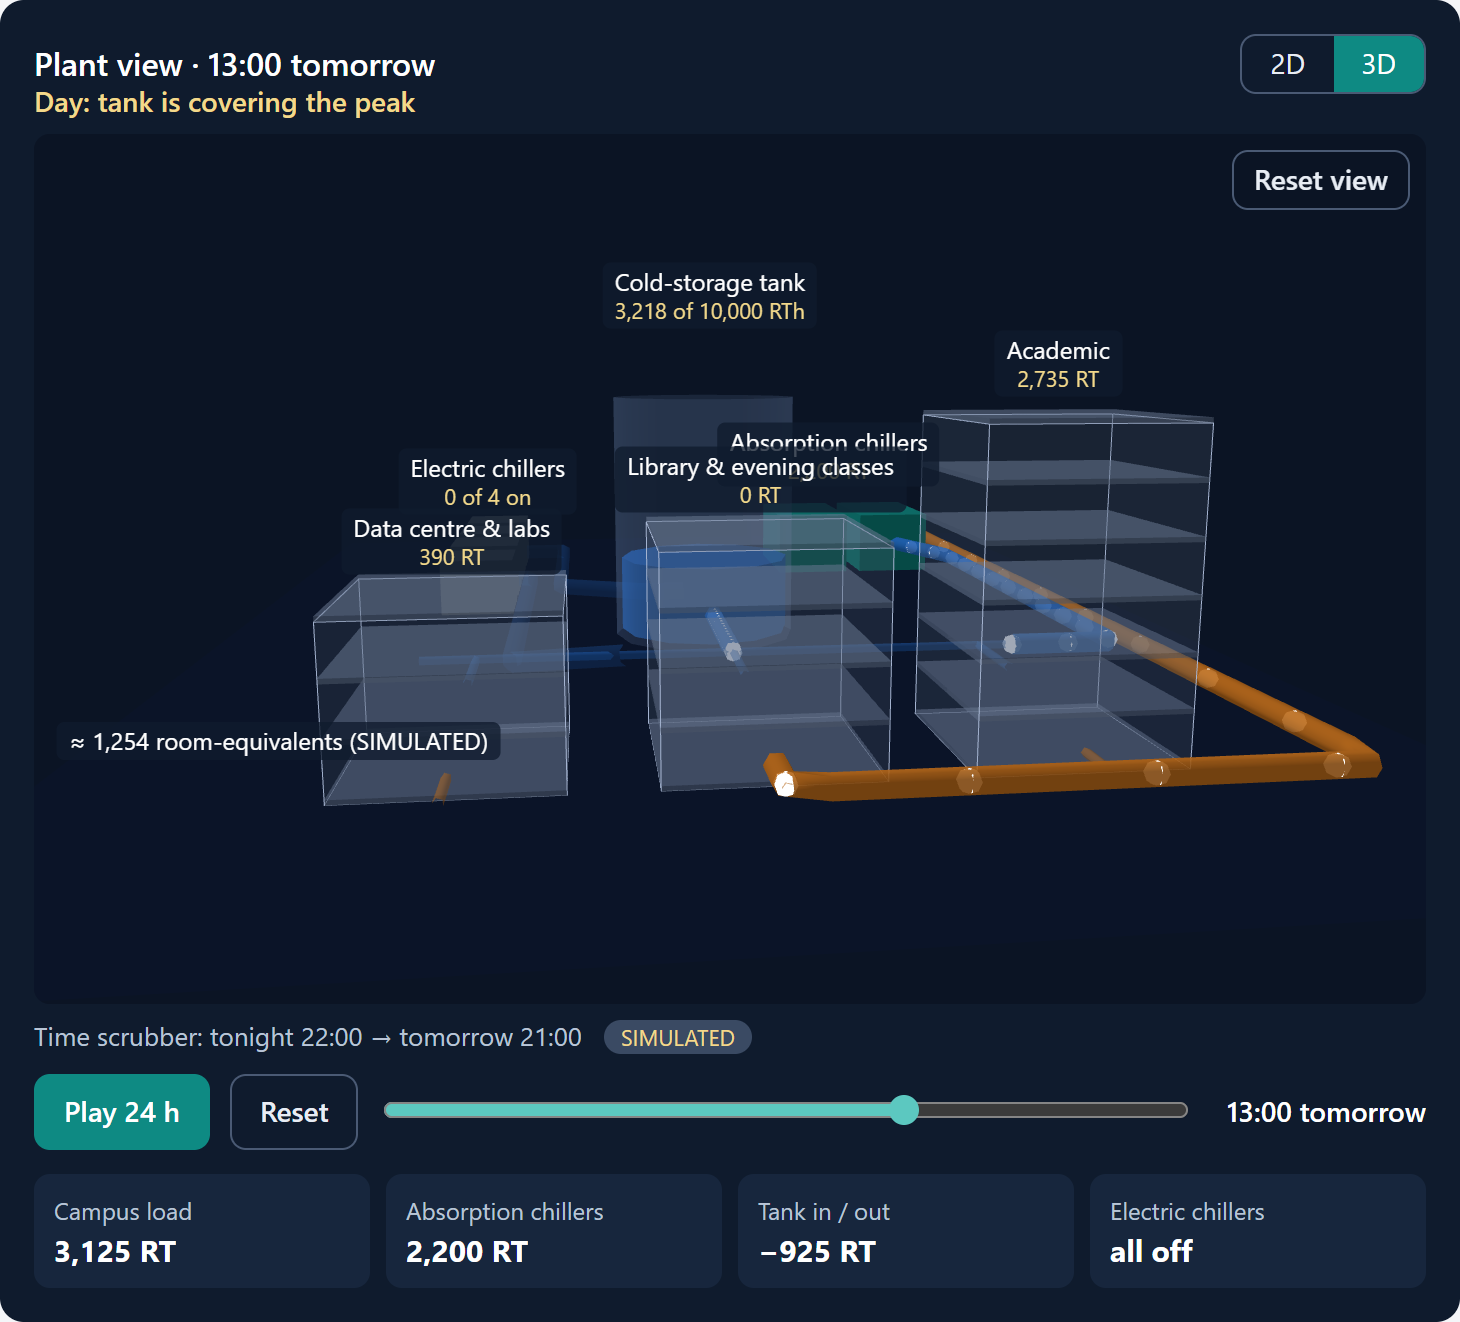
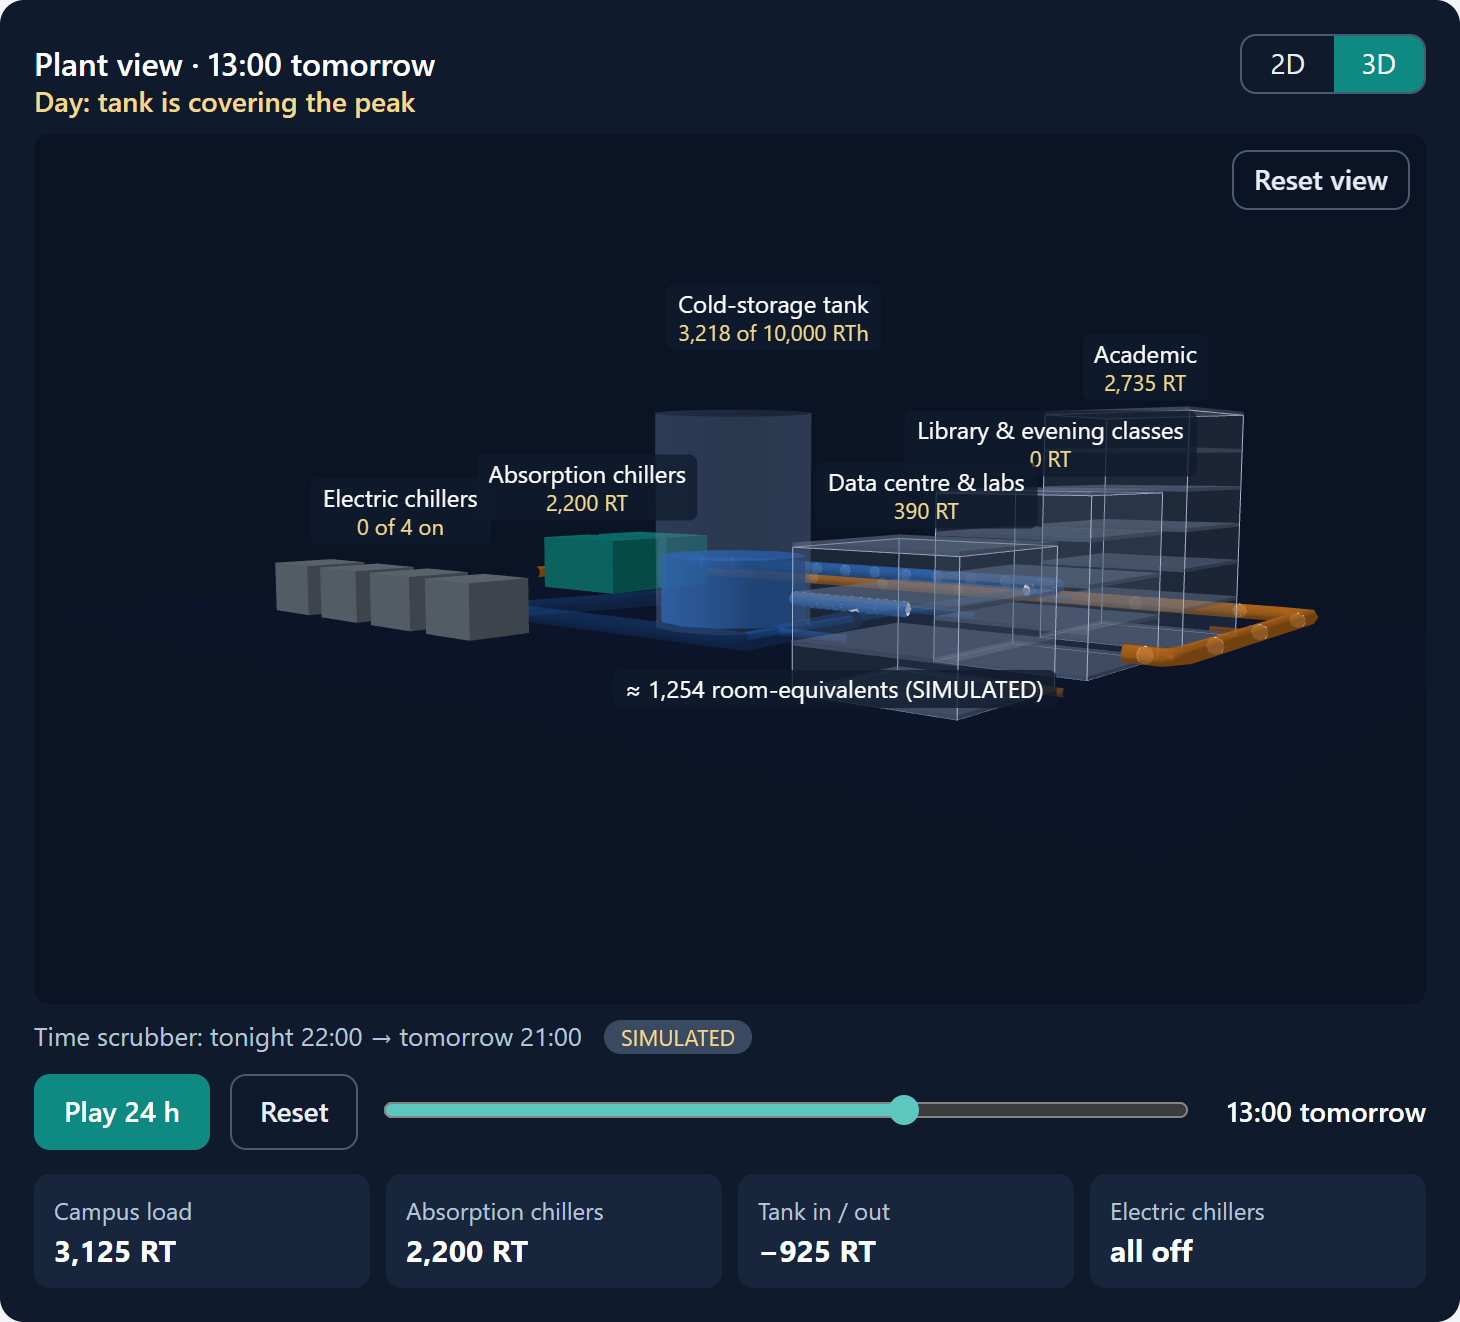
docs: re-shoot 3D screenshots with readable labels

Changed region(s): [[0.0616, 0.1861, 0.9555, 0.6203]]

diff --git a/scripts/screenshots.py b/scripts/screenshots.py
@@ -23,8 +23,8 @@ SCENARIOS = [
 ]
 
 # 3D camera positions (world units). HOME is [28, 20, 30] in static/plant3d-scene.js.
-NIGHT_CAMERA = [-34, 26, 26]  # 02:00 charging: front-left, high
-DAY_CAMERA = [40, 9, 4]  # 13:00 discharging: right side, lower
+NIGHT_CAMERA = [-26, 46, 22]  # 02:00 charging: front-left, high (labels all readable)
+DAY_CAMERA = [30, 6, 34]  # 13:00 discharging: front-right, low (labels do not overlap)
 NIGHT_HOUR = 4  # 02:00 (charging)
 DAY_HOUR = 15  # 13:00 (daytime discharge)
 
